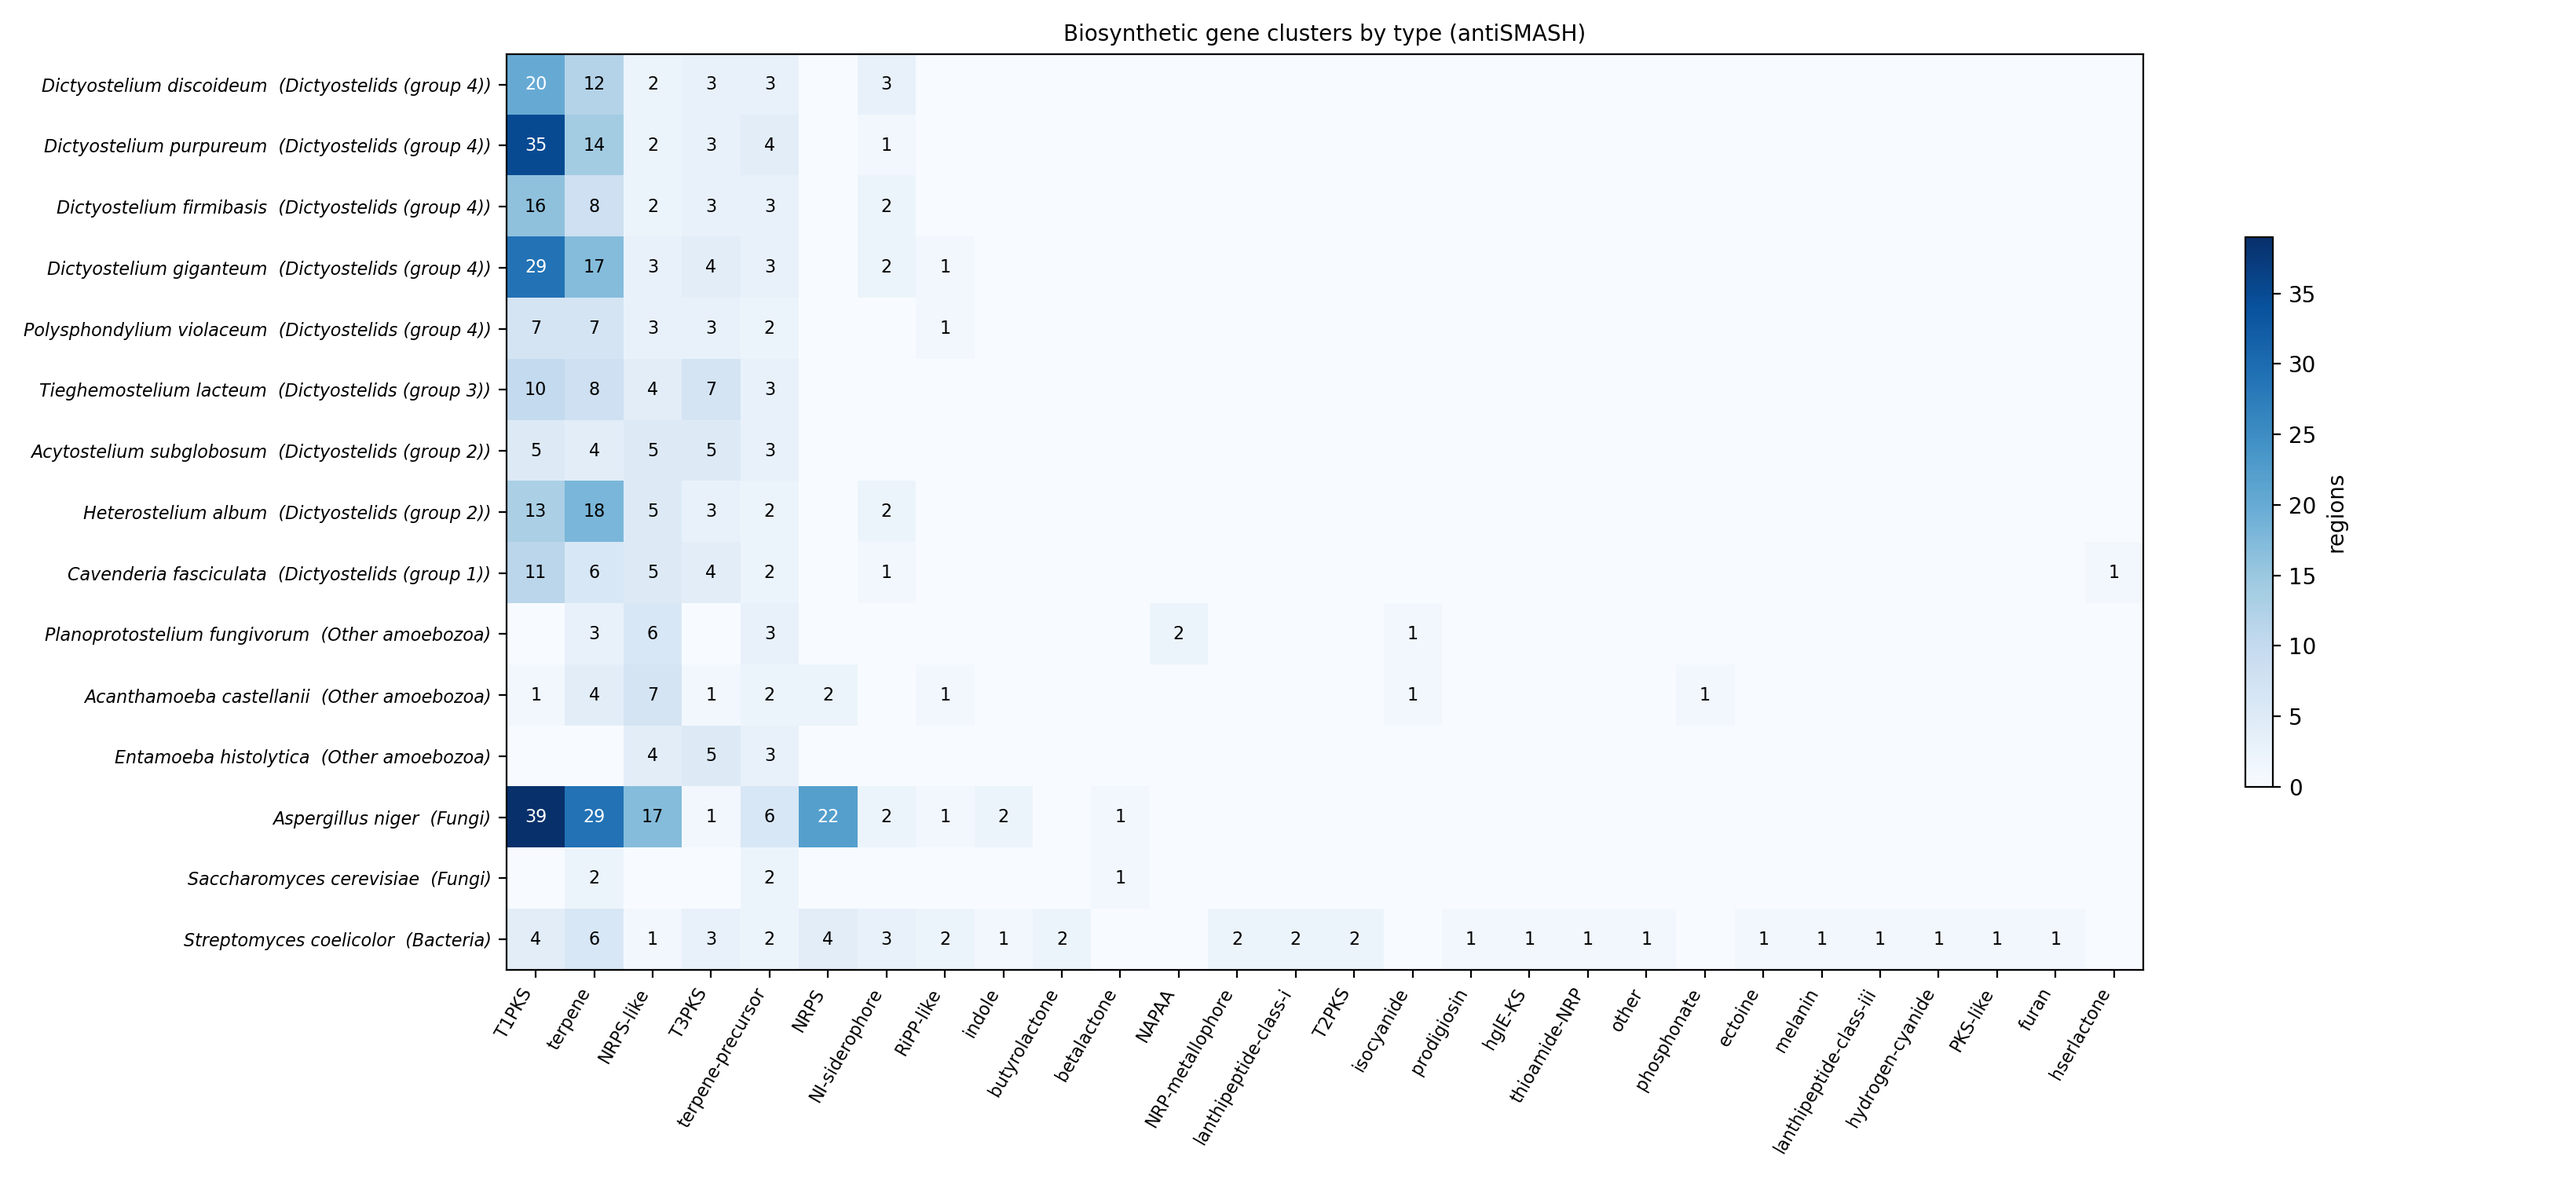
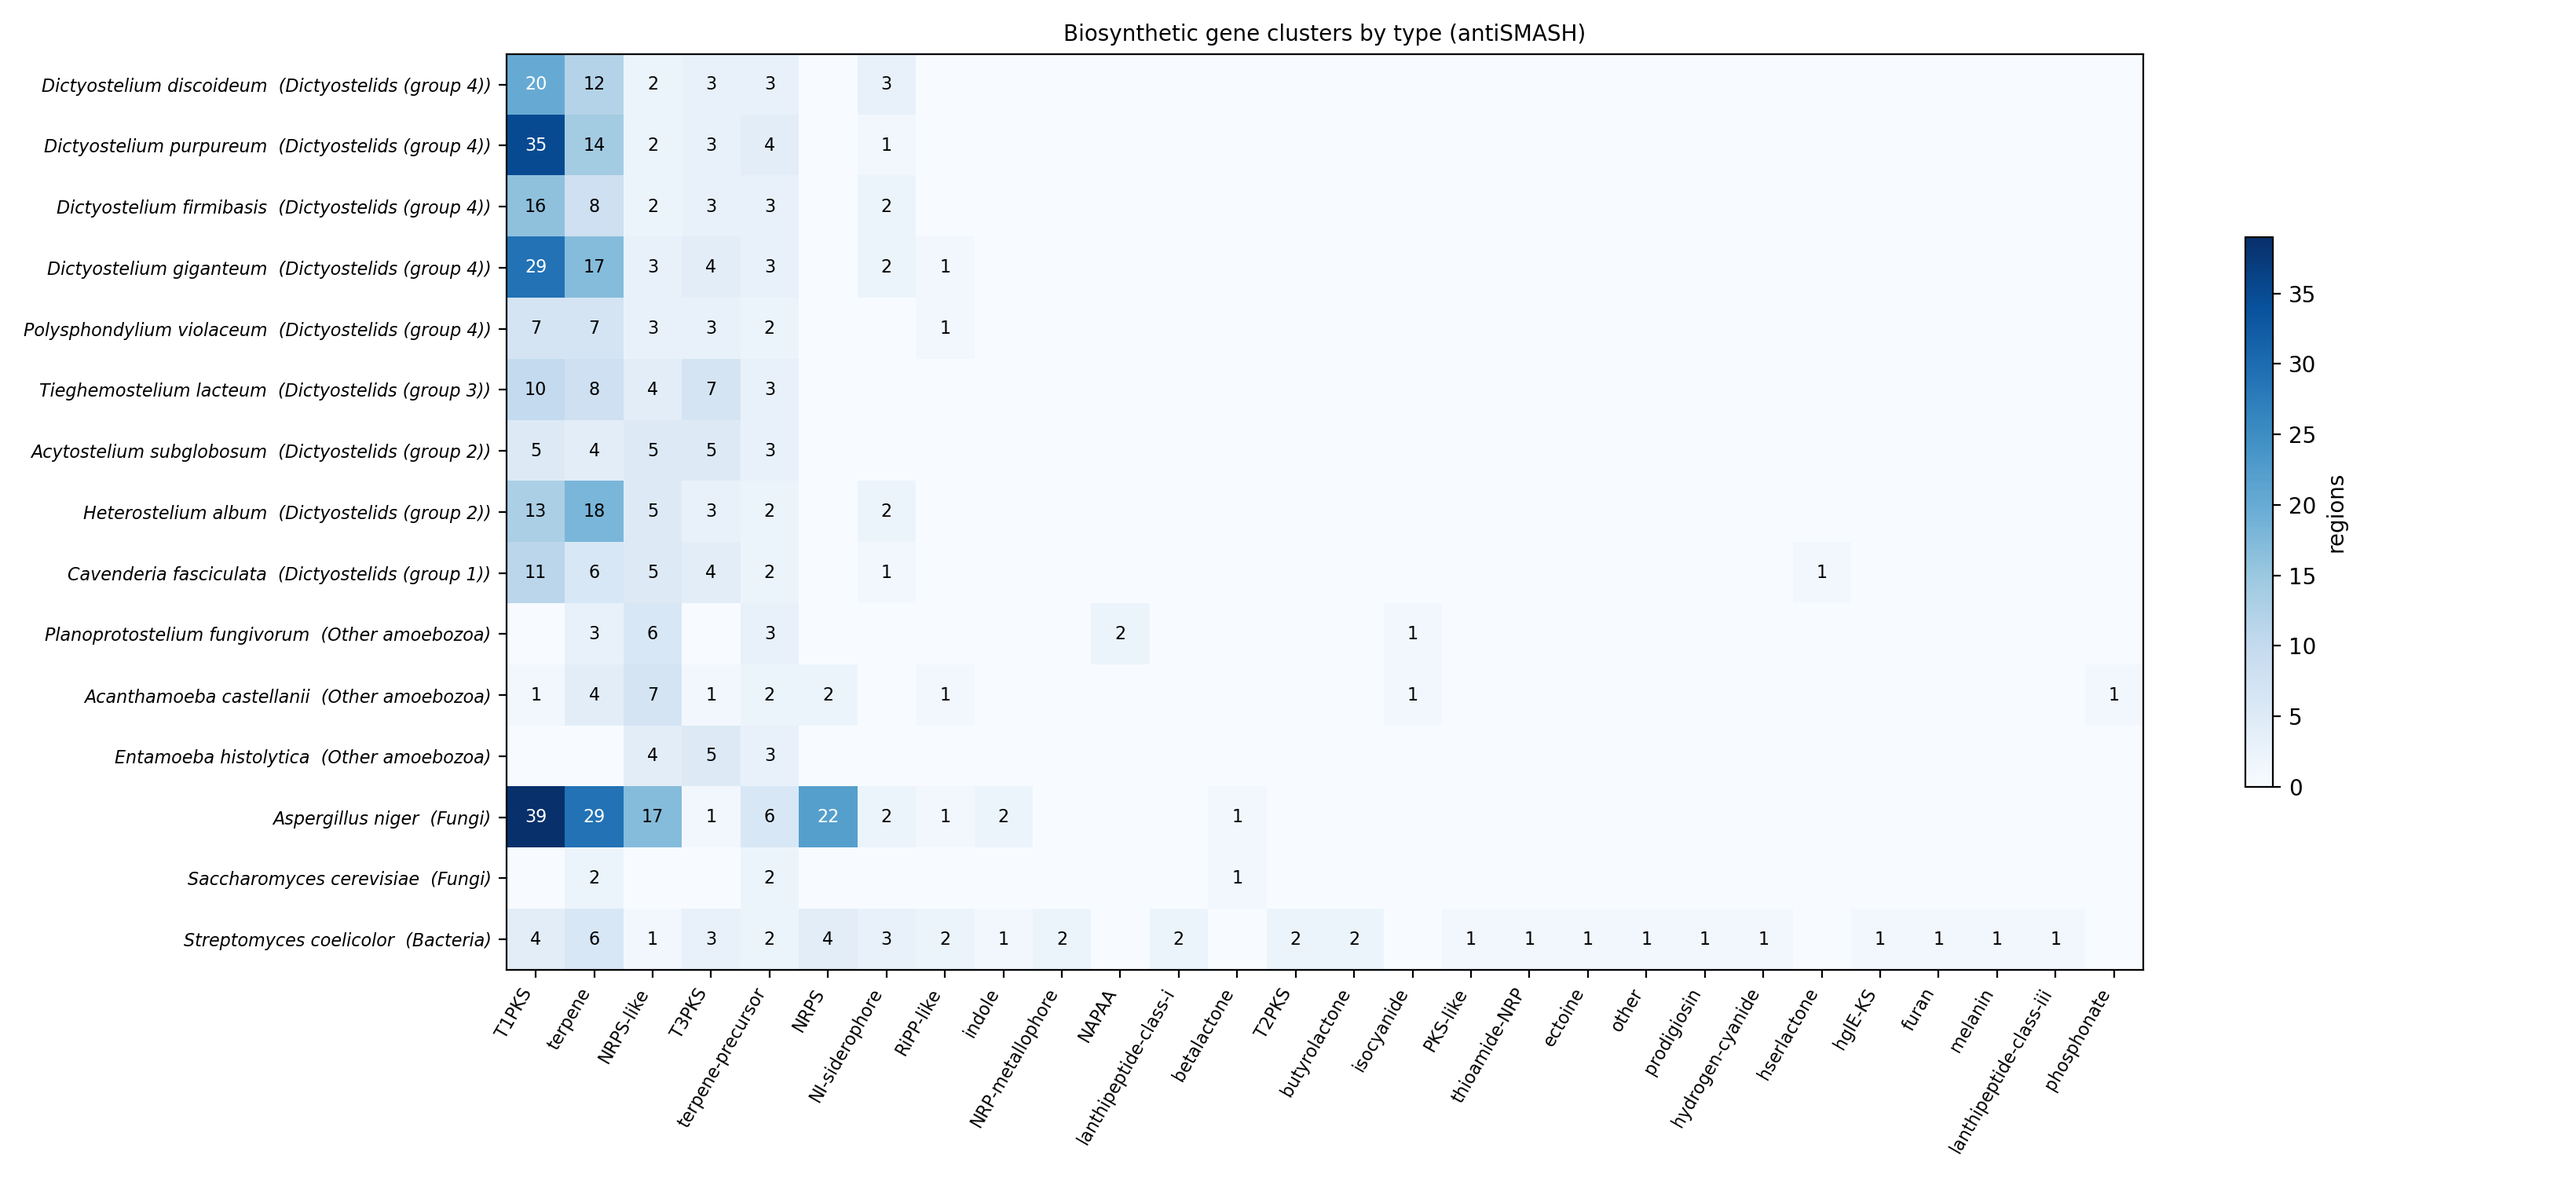
README: soften the group 4 claim, name the dropped genes, numbers from a new group summary; clear antiSMASH output before reruns

diff --git a/workflow/scripts/summarize.py b/workflow/scripts/summarize.py
@@ -2,6 +2,7 @@
 
 import csv
 import json
+import statistics
 import sys
 from collections import Counter, defaultdict
 from pathlib import Path
@@ -53,6 +54,18 @@ with open(snakemake.output.counts, "w", newline="") as fh:  # noqa: F821
     for acc in order:
         total = sum(1 for r in regions if r["accession"] == acc)
         w.writerow([acc, meta[acc]["name"], meta[acc]["group"], total, *(counts[acc][t] for t in types)])
+
+# Per-group ranges and medians, so README numbers come straight from here.
+with open(snakemake.output.groups, "w", newline="") as fh:  # noqa: F821
+    w = csv.writer(fh, delimiter="	")
+    w.writerow(["group", "genomes", "measure", "min", "median", "max"])
+    groups: dict[str, list[str]] = defaultdict(list)
+    for acc in order:
+        groups[meta[acc]["group"].split(" (")[0]].append(acc)
+    for g, accs in groups.items():
+        totals = [sum(1 for r in regions if r["accession"] == a) for a in accs]
+        for name, vals in [("all regions", totals), *((t, [counts[a][t] for a in accs]) for t in types[:5])]:
+            w.writerow([g, len(accs), name, min(vals), statistics.median(vals), max(vals)])
 
 fig, ax = plt.subplots(figsize=(1.0 + 0.55 * len(types), 1.2 + 0.42 * len(order)))
 grid = [[counts[a][t] for t in types] for a in order]

diff --git a/README.md b/README.md
@@ -17,7 +17,7 @@ It started from a question in a community college project: are slime molds like 
 | *Streptomyces coelicolor* (bacterium) | 4 | 31 |
 
 - **Polyketide synthases are the slime molds' specialty.** Every dictyostelid has 5 to 35 type I PKS clusters, while their non-social amoeba relatives have at most one. *D. purpureum* (35) comes close to *Aspergillus niger* (39), a fungus known for its rich chemistry.
-- **The expansion is strongest in group 4** (*Dictyostelium*: 16-35), the most recently diverged lineage, and smaller in groups 1-3 (5-13). That suggests these genes multiplied after social amoebae arose.
+- **Counts are highest in the genus *Dictyostelium*** (16-35, all in group 4), while *Polysphondylium violaceum* (also group 4) has 7 and groups 1-3 have 5-13. Nine genomes can't show when the extra genes appeared, and the *Dictyostelium* genomes are also among the best annotated, which could raise their counts. Testing this needs more genomes and a PKS gene tree (see next steps).
 - **Every dictyostelid has 1-4 hybrid regions with both type I and type III PKS**, consistent with the "Steely" enzymes known from *D. discoideum*, where both kinds of PKS are fused into one protein. No other genome here has them.
 - **No true NRPS clusters in any dictyostelid** (only NRPS-like fragments), unlike *Aspergillus* (22). Their chemistry is polyketide- and terpene-based, not peptide-based.
 - Terpene clusters are also common (4-18 per dictyostelid).
@@ -25,7 +25,7 @@ It started from a question in a community college project: are slime molds like 
 ## Caveats
 
 - antiSMASH has no amoeba mode; eukaryotes run with `--taxon fungi`, so the detection rules were built on fungal genes. Counts are best read as relative, not exact.
-- Results depend on each genome's gene annotation, which comes from different groups and methods. Two malformed genes in the *Acanthamoeba* annotation (overlapping exons) were removed so antiSMASH would run (see `logs/clean/`).
+- Results depend on each genome's gene annotation, which comes from different groups and methods. Two malformed genes in the *Acanthamoeba* annotation (ACA1_255410 and ACA1_274390, whose exons overlap) were removed so antiSMASH would run; no other genome needed changes.
 - Plasmodial slime molds (*Physarum*, *Badhamia*) have no annotated genome on NCBI yet, so they aren't included.
 - A cluster means the genes are there, not that the molecule is made. Many clusters are silent in lab conditions.
 
@@ -46,4 +46,4 @@ download-antismash-databases
 snakemake --cores 16
 ```
 
-Genomes are listed in `config/genomes.tsv`. The workflow downloads each annotated genome from NCBI, removes malformed gene models (`workflow/scripts/clean_gbff.py`), runs antiSMASH 8, and summarizes the regions (`results/bgc_counts.tsv`, `results/bgc_regions.tsv`, `results/bgc_heatmap.png`). The full run takes about 25 minutes on 16 cores.
+Genomes are listed in `config/genomes.tsv`. The workflow downloads each annotated genome from NCBI, removes malformed gene models (`workflow/scripts/clean_gbff.py`), runs antiSMASH 8, and summarizes the regions (`results/bgc_counts.tsv`, `results/bgc_regions.tsv`, `results/bgc_heatmap.png`, and per-group ranges and medians in `results/group_summary.tsv`, which the numbers above come from). The full run takes about 25 minutes on 16 cores.
